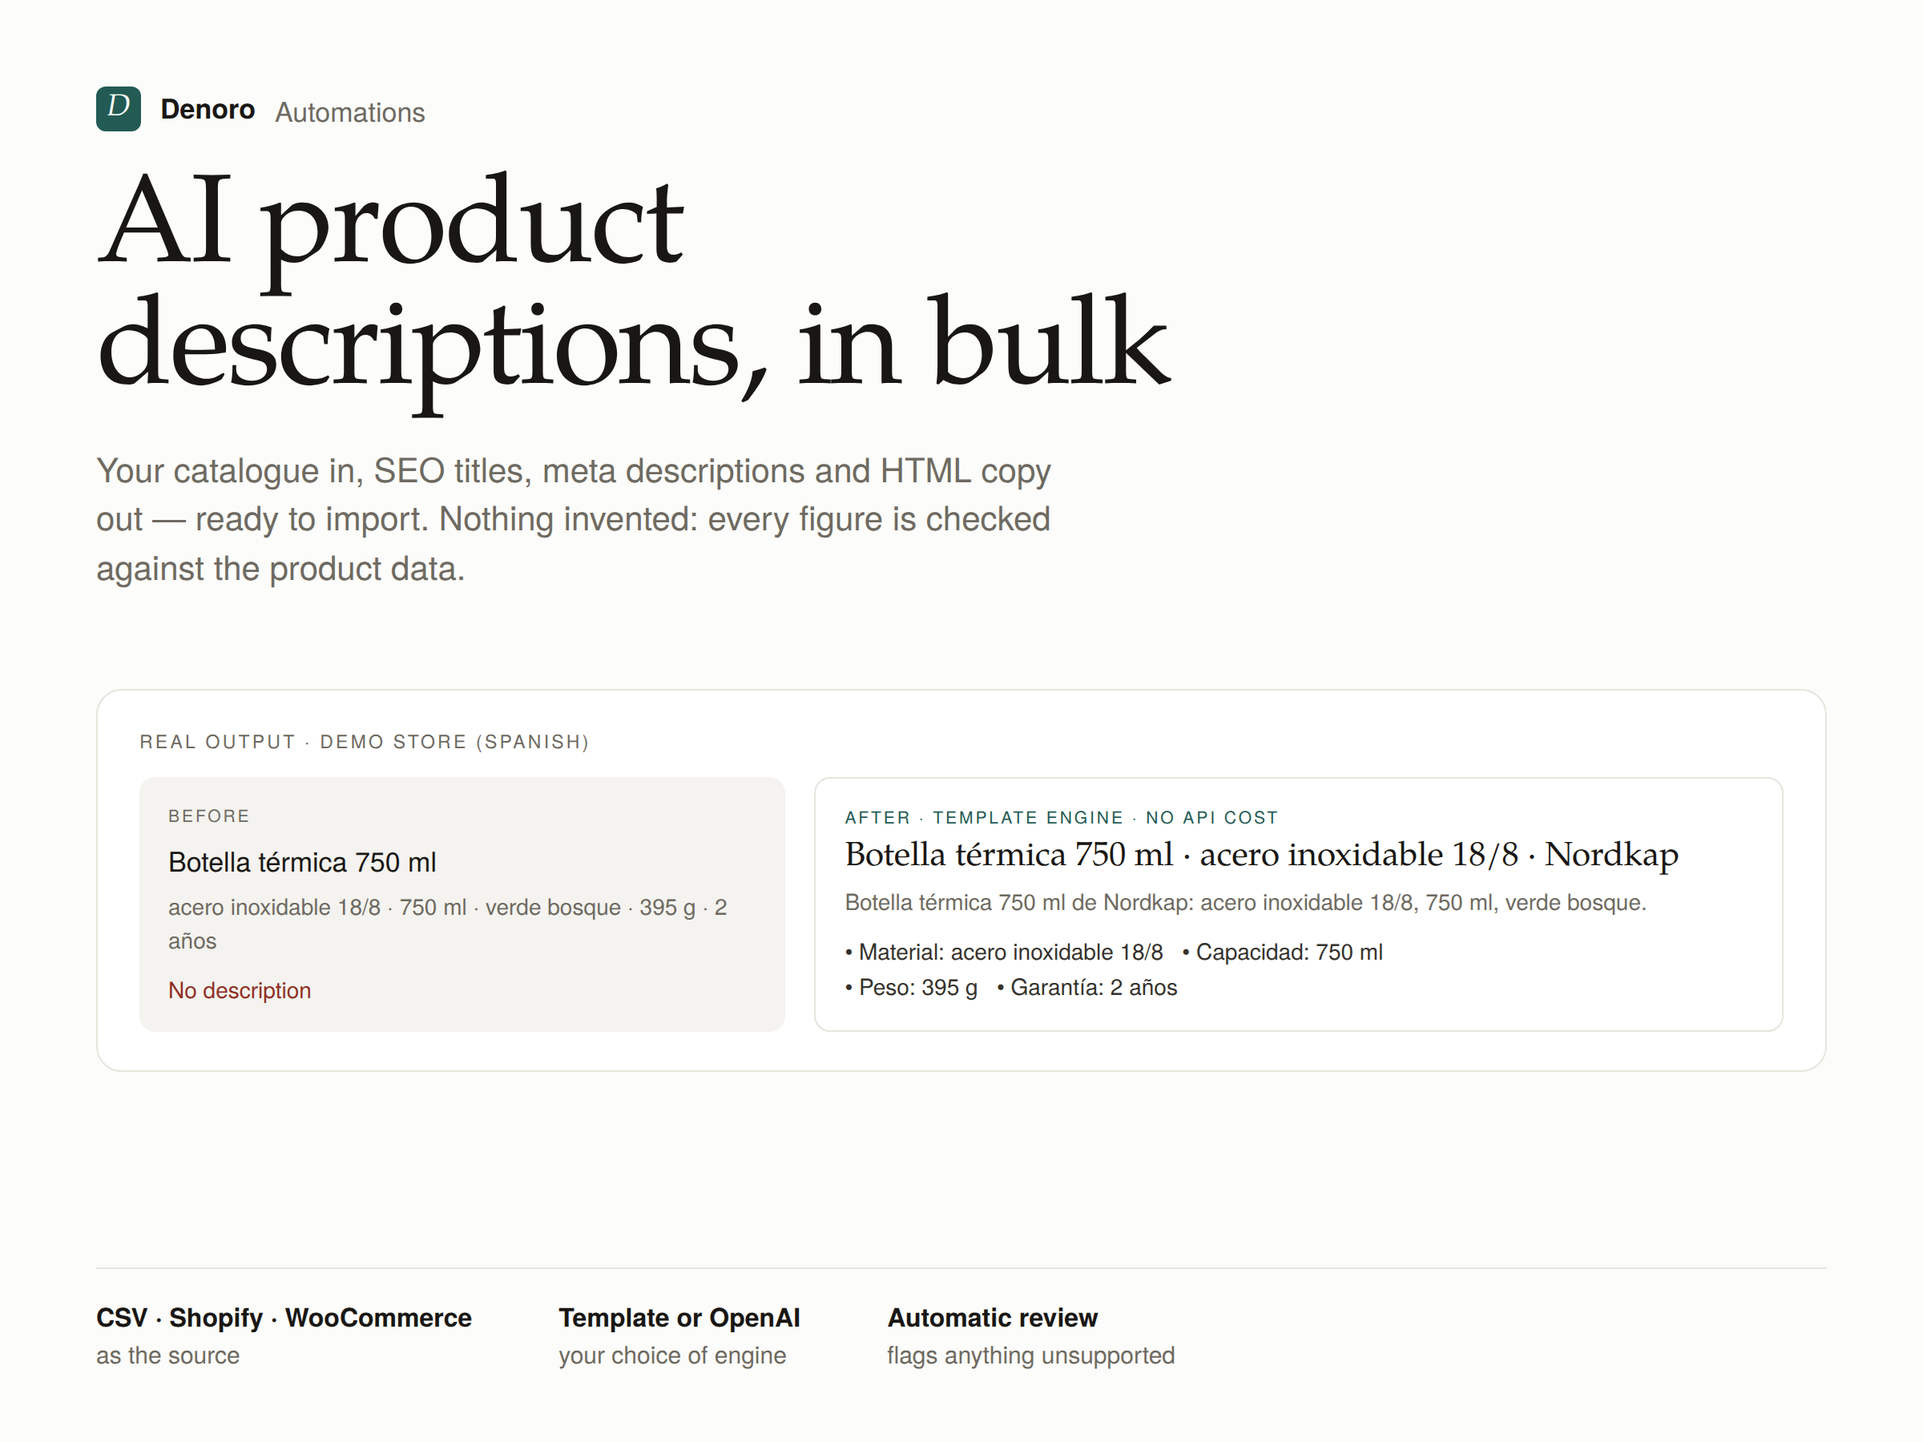
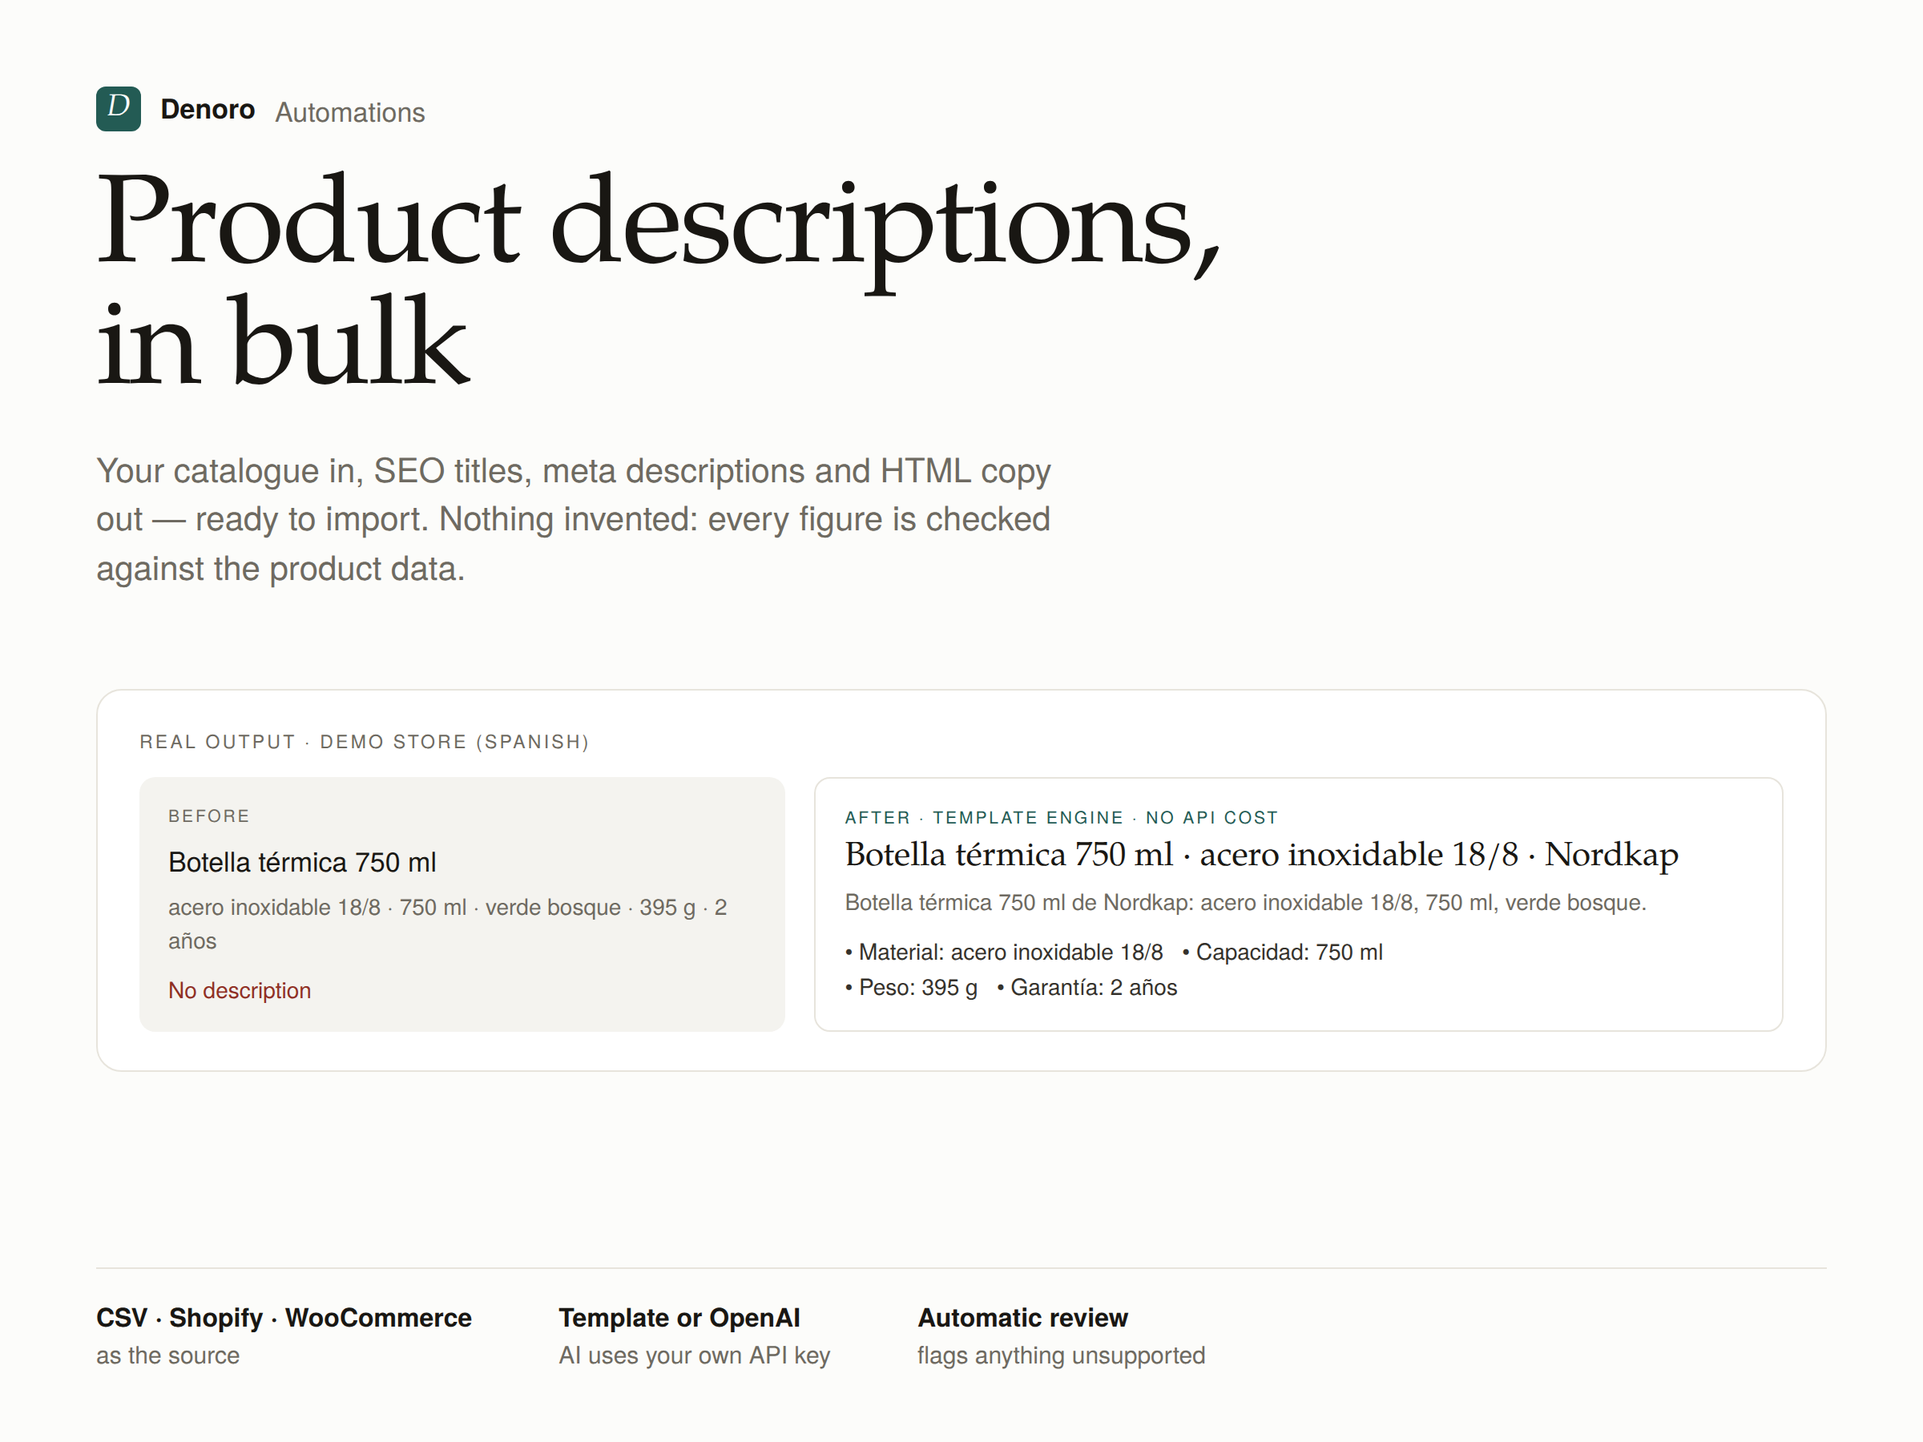
Textos fieles al codigo: fichas en bloque (IA con clave propia), resenas con robots.txt y WooCommerce, aviso Verifactu, sin cifras sin fuente, portadas y recuentos de tests actualizados

Changed region(s): [[0.0312, 0.1244, 0.625, 0.28], [0.4688, 0.9022, 0.625, 0.9644], [0.2812, 0.9333, 0.4375, 0.9644]]

diff --git a/resenas/src/config.js b/resenas/src/config.js
@@ -7,7 +7,8 @@ const CONFIG = {
   // Con fuente = 'web': páginas públicas de opiniones, cada una con sus selectores CSS
   // (se sacan con el inspector del navegador: clic derecho → Inspeccionar).
   // Antes de leer cada página se comprueba su robots.txt: si no permite la lectura
-  // automática, el workflow se para y lo dice. Trustpilot y Google, por ejemplo, no la permiten.
+  // automática, el workflow se para y lo dice. Trustpilot, por ejemplo, no la permite.
+  // Las reseñas de Google Maps se cargan con JavaScript y así no se leen: para esas está la API de Google Business Profile.
   sitios: [
     // {
     //   nombre: 'Opiniones de mi web',

diff --git a/resenas/build.py b/resenas/build.py
@@ -40,7 +40,7 @@ def resenas():
             "de WooCommerce en el nodo *Reseñas WooCommerce*.\n"
             "3. **Páginas públicas de opiniones**: `fuente: 'web'` y rellena **sitios** con la URL y los "
             "selectores CSS. Antes de leerlas se comprueba su robots.txt: si no lo permiten, el workflow "
-            "se para y lo dice (Trustpilot y Google, por ejemplo, no lo permiten).\n"
+            "se para y lo dice (Trustpilot, por ejemplo, no lo permite).\n"
             "4. **Cada 2 horas** busca reseñas nuevas y avisa solo de las negativas. "
             "**Los lunes a las 9:00** manda el resumen de la semana.\n"
             "5. *Settings → Error workflow*: **Denoro — Avisos de error**."), w=560, h=400, color=5),

diff --git a/resenas/README.es.md b/resenas/README.es.md
@@ -1,7 +1,7 @@
 # Vigilancia de reseñas
 
-Revisa cada dos horas las páginas donde hablan de la tienda, avisa **al momento** de cada reseña
-negativa y los lunes manda un resumen con la nota media, la tendencia y de qué se queja la gente.
+Revisa cada dos horas las reseñas de tu tienda WooCommerce o las páginas públicas de opiniones que lo
+permitan, avisa **el mismo día** de cada reseña negativa y los lunes manda un resumen con la nota media, la tendencia y de qué se queja la gente.
 
 ## Qué resuelve
 
@@ -31,28 +31,38 @@ Las reseñas ya vistas no se vuelven a avisar: el workflow guarda una huella cor
 
 | `fuente` | Qué hace |
 |---|---|
-| `demo` | 12 reseñas de ejemplo repartidas en el tiempo |
-| `web` | Descarga cada página de `sitios` y extrae las reseñas con los selectores CSS que le des |
+| `demo` | 12 reseñas de ejemplo repartidas en el tiempo, sin marcas de terceros |
+| `woocommerce` | Las reseñas aprobadas de tu tienda, por su API (`/wp-json/wc/v3/products/reviews`) con tu credencial de WooCommerce. Cada una va con el producto y el enlace a su ficha |
+| `web` | Páginas públicas de opiniones, cada una con los selectores CSS que le des |
 
-Cada sitio se define con su `url`, el selector del `bloque` de cada reseña y los de `texto`,
-`puntuacion`, `autor` y `fecha` (con su atributo, si la nota va en un `alt` o la fecha en un
+En modo `web`, cada sitio se define con su `url`, el selector del `bloque` de cada reseña y los de
+`texto`, `puntuacion`, `autor` y `fecha` (con su atributo, si la nota va en un `alt` o la fecha en un
 `datetime`). Se sacan con el inspector del navegador. Entiende `Valorado con 2 de 5 estrellas`,
 `2,0` y `★★☆☆☆`.
 
 Si la página cambia de maquetación, el workflow **falla con un aviso claro** en vez de quedarse
 callado diciendo que no hay reseñas.
 
-## Antes de vigilar un sitio
+## robots.txt: se comprueba antes de leer
 
-Conviene mirar el `robots.txt` y las condiciones de uso de cada página, y espaciar las
-descargas. El workflow se identifica con su propio `User-Agent` y respeta el ritmo de dos horas.
-Cuando el sitio tenga API oficial (Trustpilot, Google Business Profile), es mejor esa vía.
+En modo `web`, antes de descargar ninguna página el workflow lee el `robots.txt` de cada sitio y
+aplica sus reglas (las de su propio bot, `DenoroBot`, o las generales). Si un sitio no permite la
+lectura automática de esa página, **se para y dice qué sitio quitar**; si el `robots.txt` no se puede
+consultar (error del servidor o de red), también se para.
+
+- Trustpilot, por ejemplo, no la permite: para esas reseñas está su API oficial.
+- Las reseñas de Google Maps se cargan con JavaScript y así no se leen: para esas está la API de
+  Google Business Profile, que se puede añadir aparte.
+
+Además del `robots.txt`, conviene leer las condiciones de uso de cada web antes de vigilarla.
+En WooCommerce nunca se lee el email de quien escribió la reseña.
 
 ## Cómo se usa
 
 1. Importa `workflow.json` en n8n.
 2. Prueba con `fuente: 'demo'` y el botón **Probar ahora**.
-3. Rellena `sitios` con los selectores reales y pásalo a `fuente: 'web'`.
+3. Pásalo a `fuente: 'woocommerce'` (con `woo_url` y la credencial de WooCommerce en *Reseñas WooCommerce*)
+   o a `fuente: 'web'` con `sitios` y sus selectores reales.
 4. Elige credenciales en *Enviar email* y *Enviar a Telegram*.
 5. *Settings → Error workflow*: **Denoro — Avisos de error**.
 
@@ -60,5 +70,5 @@ Cuando el sitio tenga API oficial (Trustpilot, Google Business Profile), es mejo
 
 ```bash
 python3 resenas/build.py                # regenera el workflow
-node resenas/test/test_resenas.js       # ~60 comprobaciones
+node resenas/test/test_resenas.js       # 85 comprobaciones
 ```

diff --git a/README.md b/README.md
@@ -1,24 +1,27 @@
 # E-commerce automations · Denoro
 
-Five production-ready n8n automations for online shops. Each one ships with its workflow,
+Five n8n automations for online shops, ready to set up. Each one ships with its workflow,
 a demo mode that runs without connecting anything, its own tests and its documentation
-(in Spanish, inside each folder).
+(in Spanish, inside each folder). The other two in the catalogue live in their own repos:
+[price-monitor](https://github.com/denoro-automations/price-monitor) and
+[weekly-report](https://github.com/denoro-automations/weekly-report).
 
 | Automation | What it does | Runs every |
 |---|---|---|
-| [AI product descriptions](fichas-producto/) | Turns a catalogue with no copy into SEO titles, meta descriptions and HTML descriptions, ready to import | Manual / weekly |
-| [Supplier stock sync](stock-proveedor/) | Syncs supplier feed stock into the shop, with safety brakes | 4 hours |
-| [Abandoned carts](carritos/) | Recovery sequence to the shopper, and measures what comes back | 30 minutes |
-| [Review monitoring](resenas/) | Instant alert on every negative review, plus a weekly digest | 2 hours / weekly |
-| [Invoices and delivery notes](facturas/) | Numbering, VAT breakdown, branded PDF, sent to the customer | 1 hour |
+| [Product copy in bulk](fichas-producto/) | Turns a catalogue with no copy into SEO titles, meta descriptions and HTML descriptions, ready to import. Free template engine, or OpenAI with your own key | Manual / Mondays |
+| [Supplier stock sync](stock-proveedor/) | Syncs stock from the supplier's CSV or XML feed into Shopify or WooCommerce, and stops itself if the feed looks broken | 4 hours |
+| [Abandoned carts](carritos/) | Reminder sequence to shoppers who opted in, signed by the shop, and a count of what comes back | 30 minutes |
+| [Review monitoring](resenas/) | Same-day alert on every new negative review (WooCommerce reviews, or public pages whose robots.txt allows it), plus a Monday digest | 2 hours / Mondays |
+| [Invoices and delivery notes](facturas/) | Numbering, VAT breakdown, branded PDF, sent to the customer, plus a CSV ledger. Not Verifactu-certified software | 1 hour |
 
 ## What the output looks like
 
-Every image below is generated from a real run of the workflow in demo mode.
+The figures on each cover come from the workflow's own code run on its demo data; the invoice is a real PDF
+produced by the workflow.
 
 | | |
 |---|---|
-| ![AI product descriptions](docs/portada-fichas.png) | ![Supplier stock sync](docs/portada-stock.png) |
+| ![Product copy in bulk](docs/portada-fichas.png) | ![Supplier stock sync](docs/portada-stock.png) |
 | ![Abandoned cart recovery](docs/portada-carritos.png) | ![Review monitoring](docs/portada-resenas.png) |
 | ![Automatic invoices](docs/portada-facturas.png) | ![A generated invoice](docs/factura-ejemplo.png) |
 
@@ -58,7 +61,7 @@ Tests run the node code outside n8n with a small harness that mimics `$input`, `
 2. Import `comun/avisos-de-error.workflow.json` too and set it as the *Error workflow*.
 3. Edit the `CONFIG` block, pick credentials, and try it in `demo` mode first.
 
-PDF output (invoices) needs Gotenberg:
+PDF output (invoices) needs Gotenberg (without it, the invoice is sent as HTML):
 
 ```bash
 docker run -d -p 3000:3000 --name gotenberg gotenberg/gotenberg:8

diff --git a/README.es.md b/README.es.md
@@ -2,14 +2,17 @@
 
 Cinco automatizaciones de n8n listas para poner en marcha en una tienda online.
 Cada una trae su workflow, su modo de prueba sin conectar nada, sus tests y su documentación.
+Las otras dos del catálogo tienen su propio repositorio:
+[price-monitor](https://github.com/denoro-automations/price-monitor) y
+[weekly-report](https://github.com/denoro-automations/weekly-report).
 
 | Automatización | Qué hace | Cada |
 |---|---|---|
-| [Fichas de producto con IA](fichas-producto/) | Convierte un catálogo sin descripciones en títulos SEO, metas y fichas en HTML, listas para importar | A mano o los lunes |
-| [Stock del proveedor](stock-proveedor/) | Sincroniza las existencias del feed del proveedor con la tienda, con frenos de seguridad | 4 horas |
-| [Carritos abandonados](carritos/) | Secuencia de avisos al comprador y cuenta de lo recuperado | 30 minutos |
-| [Vigilancia de reseñas](resenas/) | Avisa al momento de cada reseña negativa y resume la semana | 2 horas / lunes |
-| [Facturas y albaranes](facturas/) | Numera, calcula el IVA, genera el PDF y lo manda al cliente | 1 hora |
+| [Fichas de producto en bloque](fichas-producto/) | Convierte un catálogo sin descripciones en títulos SEO, metas y fichas en HTML, listas para importar. Motor de plantilla gratis, u OpenAI con tu propia clave | A mano o los lunes |
+| [Stock del proveedor](stock-proveedor/) | Sincroniza las existencias del feed CSV o XML del proveedor con Shopify o WooCommerce, y se para sola si el feed llega roto | 4 horas |
+| [Carritos abandonados](carritos/) | Secuencia de avisos a quien dio su consentimiento, firmada por la tienda, y cuenta de lo recuperado | 30 minutos |
+| [Vigilancia de reseñas](resenas/) | Avisa el mismo día de cada reseña negativa nueva (reseñas de WooCommerce, o páginas públicas cuyo robots.txt lo permita) y resume la semana | 2 horas / lunes |
+| [Facturas y albaranes](facturas/) | Numera, calcula el IVA por tipos, genera el PDF, lo manda al cliente y deja el libro en CSV. No es software certificado Verifactu | 1 hora |
 
 ## Cómo están hechas
 
@@ -52,7 +55,7 @@ Los tests ejecutan el código de los nodos fuera de n8n con un arnés mínimo
 4. Elige las credenciales en los nodos de email, Telegram y tienda.
 5. Pruébala con `fuente: 'demo'` antes de apuntar a datos reales.
 
-Para las que generan PDF (facturas, informes) hace falta Gotenberg:
+Para el PDF de las facturas hace falta Gotenberg (si no está, la factura sale en HTML):
 
 ```bash
 docker run -d -p 3000:3000 --name gotenberg gotenberg/gotenberg:8

diff --git a/facturas/README.es.md b/facturas/README.es.md
@@ -7,8 +7,8 @@ de facturas en CSV.
 ## Qué resuelve
 
 Facturar a mano es la tarea que todo el mundo deja para el último día del trimestre. Automatizarla
-quita entre dos y cinco minutos por pedido y, sobre todo, quita los errores de numeración, que son
-los que dan problemas después.
+quita ese trabajo pedido a pedido y, sobre todo, los errores de numeración, que son los que dan
+problemas después.
 
 ## La numeración, que es lo delicado
 
@@ -18,7 +18,8 @@ los que dan problemas después.
 - Las facturas se emiten **en orden de fecha de pedido**, para que el número siga al tiempo.
 - Con `reiniciar_cada_anio` el contador vuelve a 1 en enero; sin él, la serie sigue.
 - Si el envío por email falla, **la factura ya está emitida**: aparece en el resumen como
-  "no salió" y se reintenta, pero no cambia de número (saltarse números es justo lo que no se debe hacer).
+  "no salió" y está en el CSV para reenviarla a mano, con el mismo número (saltarse números es justo
+  lo que no se debe hacer). No se reintenta sola.
 
 > No dupliques ni reimportes el workflow con facturas ya emitidas: el contador empezaría de cero
 > y saldrían números repetidos.
@@ -53,14 +54,18 @@ la factura se envía en HTML y el resumen lo avisa, antes que no mandar nada.
 
 Corre cada hora y también a mano con **Facturar ahora**.
 
-## Aviso
+## Aviso: Verifactu y asesoría
 
-Esto genera documentos válidos, pero no sustituye a una asesoría: el cliente es responsable de sus
-obligaciones fiscales, de los tipos que aplica y de conservar sus facturas.
+No es un software certificado Verifactu: no genera el registro de facturación, la huella encadenada
+ni el QR, ni envía nada a la AEAT. El sistema Verifactu será obligatorio desde el 1 de enero de 2027
+para quienes tributan por el Impuesto sobre Sociedades y desde el 1 de julio de 2027 para el resto;
+hasta entonces esto numera y documenta bien, y a partir de ahí hace falta encajarlo con un programa
+de facturación certificado o con la asesoría. Tampoco sustituye a una asesoría: el cliente es
+responsable de sus obligaciones fiscales, de los tipos que aplica y de conservar sus facturas.
 
 ## Desarrollo
 
 ```bash
 python3 facturas/build.py                  # regenera el workflow
-node facturas/test/test_facturas.js        # ~80 comprobaciones
+node facturas/test/test_facturas.js        # 481 comprobaciones
 ```

diff --git a/fichas-producto/README.es.md b/fichas-producto/README.es.md
@@ -1,4 +1,4 @@
-# Fichas de producto con IA
+# Fichas de producto en bloque
 
 Convierte un catálogo sin descripciones en fichas listas para publicar: título SEO,
 meta descripción, lista de características, descripción en HTML, palabras clave y
@@ -7,8 +7,8 @@ texto alternativo de imagen. Sale un CSV que se importa tal cual en la tienda.
 ## Qué resuelve
 
 Una tienda con cientos de referencias suele tener el mismo problema: productos dados de alta
-con el nombre del proveedor y poco más. Escribir las fichas a mano cuesta entre 10 y 20 minutos
-por producto. Esto lo hace en segundos y deja marcado lo que conviene repasar.
+con el nombre del proveedor y poco más. Esto escribe todas las fichas de una pasada a partir de los
+datos que ya tiene cada producto y deja marcado lo que conviene repasar.
 
 ## De dónde lee el catálogo
 
@@ -31,7 +31,9 @@ así que cuantas más traiga el catálogo, mejor queda la ficha. Hay un ejemplo 
   a la misma frase repetida.
 - **`openai`**: manda cada producto al modelo que elijas con instrucciones estrictas de no inventar
   datos. Necesita la credencial *OpenAi account* en el nodo **Pedir la ficha a la IA**.
-  Si una respuesta viene rota, ese producto se marca y el resto sigue.
+  Si una respuesta viene rota o la API devuelve un error, ese producto se marca con el motivo y el resto sigue.
+  Usa la clave de OpenAI del cliente, que paga su propio consumo. Los tests cubren este motor con respuestas
+  simuladas; con una clave real conviene probar primero con `max_productos` bajo.
 
 ## La revisión automática
 
@@ -75,5 +77,5 @@ El código de los nodos Code vive en `src/`; `workflow.json` se genera, no se ed
 
 ```bash
 python3 fichas-producto/build.py     # regenera el workflow
-node fichas-producto/test/test_fichas.js   # 200+ comprobaciones
+node fichas-producto/test/test_fichas.js   # 203 comprobaciones
 ```

diff --git a/carritos/README.es.md b/carritos/README.es.md
@@ -5,9 +5,9 @@ siguiendo una secuencia configurable y lleva la cuenta de cuánto se recupera.
 
 ## Qué resuelve
 
-Entre el 60 % y el 80 % de los carritos de una tienda online no terminan en pedido. Una secuencia
-de dos o tres avisos recupera una parte, y es de las pocas automatizaciones cuyo retorno se puede
-medir en euros directamente: el resumen dice cuántos carritos volvieron y por cuánto.
+Muchos carritos de una tienda online se quedan a medias. Un aviso a tiempo puede traer de vuelta
+una parte, y es de las pocas automatizaciones cuyo resultado se mide en euros: el resumen dice
+cuántos carritos volvieron después de recibir el aviso y por cuánto.
 
 ## Cómo decide
 
@@ -63,5 +63,5 @@ al cliente a cambiar lo que ya tiene.
 
 ```bash
 python3 carritos/build.py                  # regenera el workflow
-node carritos/test/test_carritos.js        # ~60 comprobaciones
+node carritos/test/test_carritos.js        # 63 comprobaciones
 ```

diff --git a/stock-proveedor/README.es.md b/stock-proveedor/README.es.md
@@ -66,5 +66,5 @@ Corre cada 4 horas y también a mano con **Sincronizar ahora**.
 
 ```bash
 python3 stock-proveedor/build.py          # regenera el workflow
-node stock-proveedor/test/test_stock.js   # ~80 comprobaciones
+node stock-proveedor/test/test_stock.js   # 79 comprobaciones
 ```
